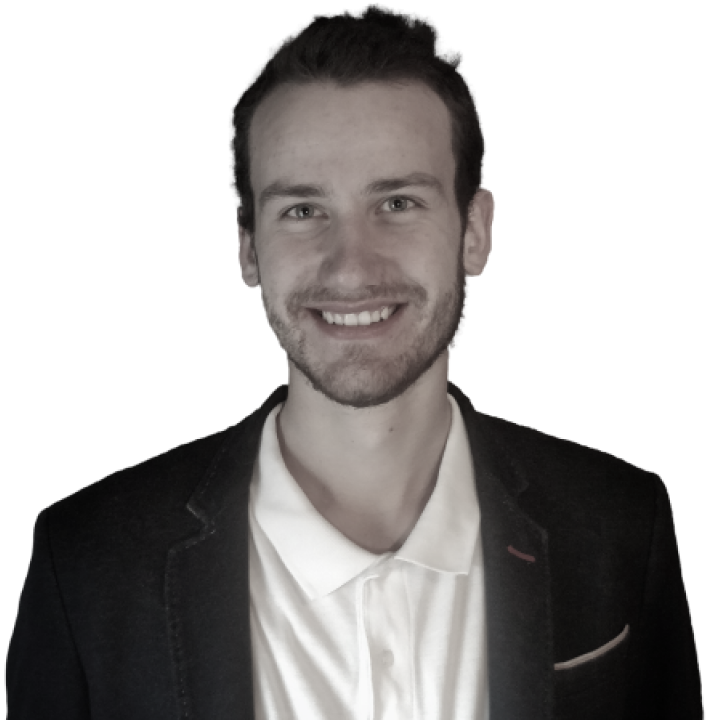
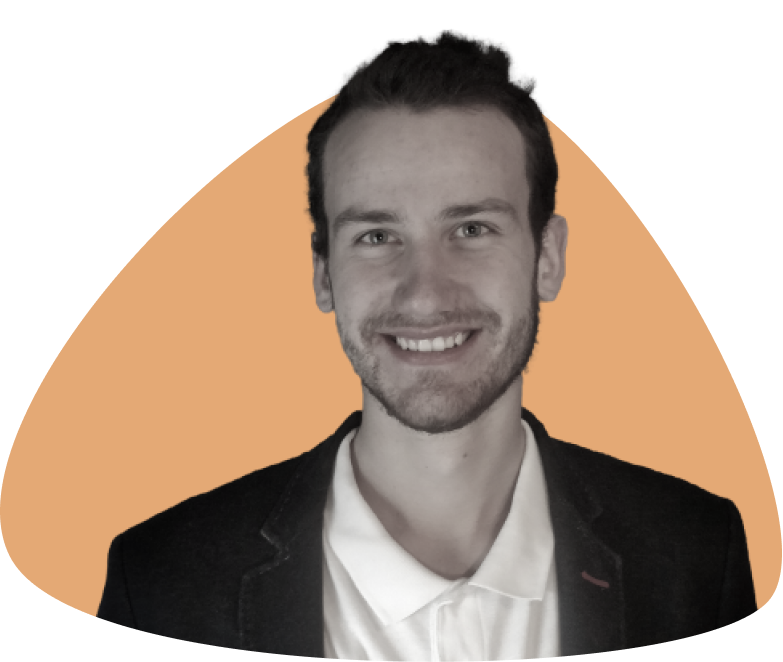
navigation petit et grand ecrant

diff --git a/public/stylePortfolio/home.css b/public/stylePortfolio/home.css
@@ -84,19 +84,10 @@ nav .logoNav {
 }
 
 .image img {
-    width: 100%;
-    height: auto;
-    z-index: 1;
-    object-fit: contain;
-    object-position: 50% 0%;
-}
-
-.image svg {
-    position: absolute;
-    top: 10%;
-    right: 8%;
-    width: 90%; 
-    z-index: 0;
+    height: 100%;
+    width: auto;
+    object-fit: cover;
+    object-position: 50% 0;
 }
 
 @media screen and (max-width: 1440px) {
@@ -111,6 +102,7 @@ nav .logoNav {
 }
 
 @media screen and (max-width: 1024px) {
+
 
     .description h1 {
         font-size: 45px;
@@ -139,7 +131,16 @@ nav .logoNav {
 @media screen and (max-width: 630px) {
 
     html, body, .body {
-        height: auto;
+        height: initial;
+    }
+
+    body{
+        overflow: initial;
+    }
+
+    .navbar {
+        overflow-x: hidden;
+        position: fixed; /**A mettre pour grand ecrnt aussi ?*/
     }
 
     nav ul{
@@ -148,24 +149,24 @@ nav .logoNav {
 
     .containe {
         flex-direction: column-reverse;
-        height: auto;
+        padding: 0 10%;
     }
 
-    .description {
+    .description h1 {
+        margin-top: 300px;
+    }
+
+    .image img {
         width: 100%;
-        text-align: center;
-        padding: 20px 0px;
     }
 
     .image {
         width: 100%;
     }
-    
-    .image svg {
-        position: absolute;
-        top: 10%;
-        right: 0%;
-        width: 100%; 
-        z-index: 0;
+
+    .description {
+        width: 100%;
+        text-align: justify;
+        padding: 20px 0px;
     }
 }

diff --git a/public/stylePortfolio/javaScript/navbar.js b/public/stylePortfolio/javaScript/navbar.js
@@ -17,6 +17,7 @@ document.querySelector('.logoNav').onclick = function(){
     else{
         body.add('bodyNavOpen'); 
         navbar.add('NavOpen');
+        //document.querySelector('.navbar').style.display = "initial"
     }
         
 };

diff --git a/MyPortfolio/Views/home.php b/MyPortfolio/Views/home.php
@@ -22,9 +22,9 @@
         <a href="#">En savoir plus</a>
     </div>
     <div class="image">
-        <svg viewBox="0 0 782 595" fill="none" xmlns="http://www.w3.org/2000/svg">
+        <!-- <svg viewBox="0 0 782 595" fill="none" xmlns="http://www.w3.org/2000/svg">
             <path d="M424.572 0.363725C601.651 -14.711 836.597 443.328 770.627 531.458C704.657 619.587 77.2806 625.386 9.61414 489.132C-58.0524 352.879 247.494 15.4384 424.572 0.363725Z" fill="#D16D15" fill-opacity="0.59"/>
-        </svg>
-        <img src="stylePortfolio/img/Me.png">
+        </svg> -->
+        <img src="stylePortfolio/img/me.png">
     </div>
 </div>
